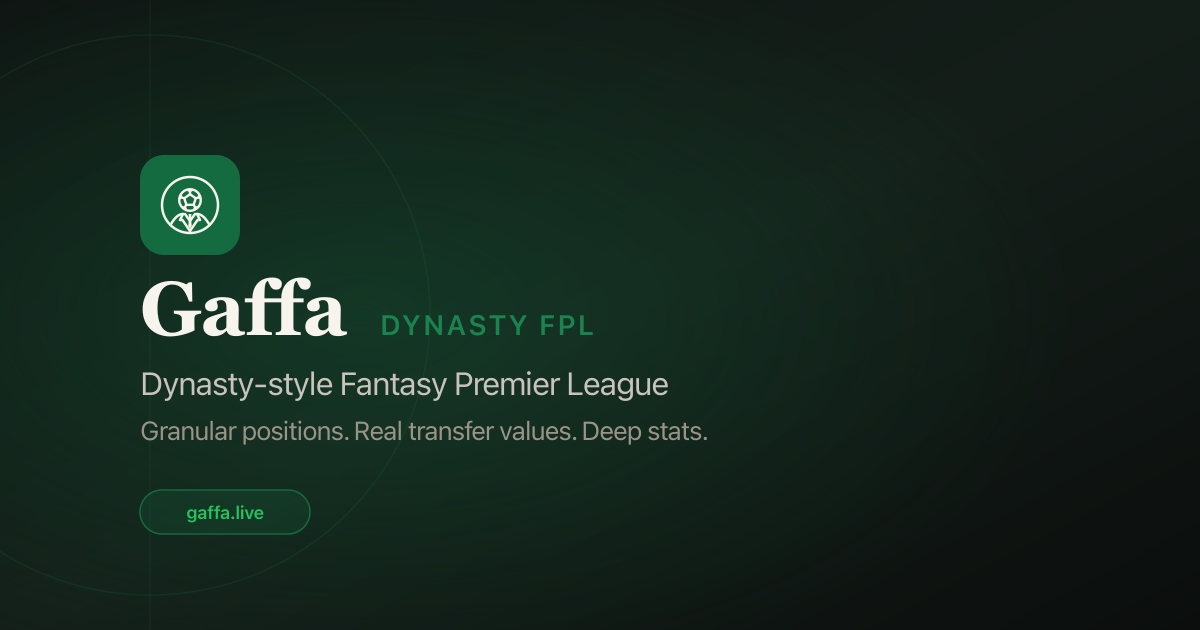
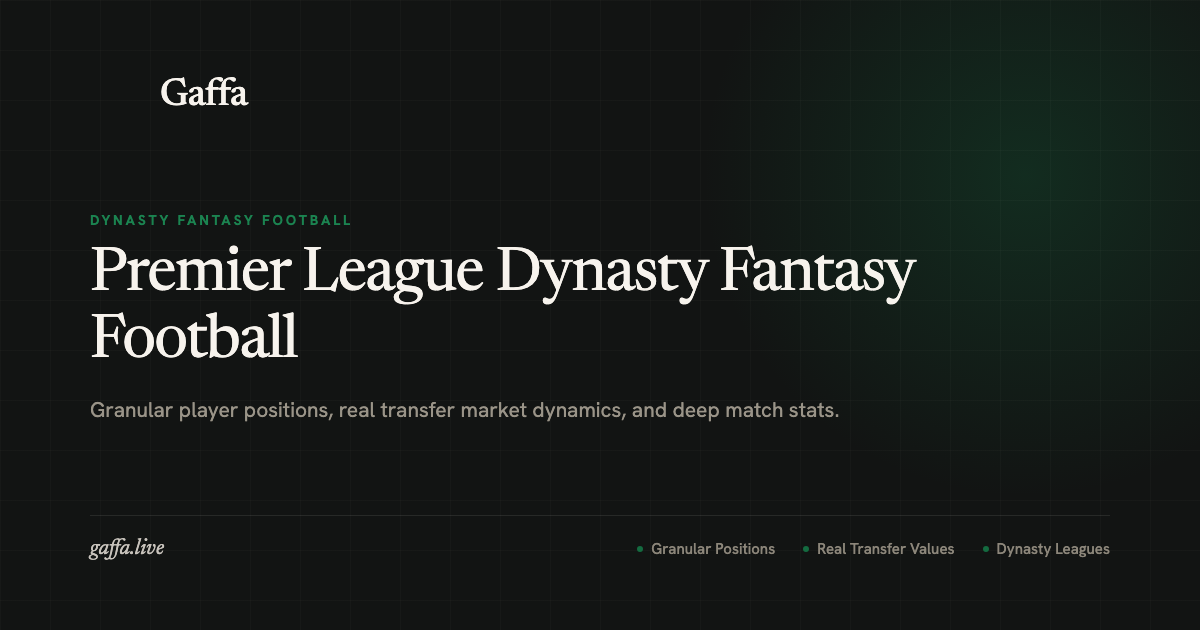
fix(metadata): update open graph card with Dynasty Fantasy Football branding and Newsreader typography

diff --git a/src/app/layout.tsx b/src/app/layout.tsx
@@ -5,10 +5,10 @@ import './globals.css';
 export const metadata: Metadata = {
   metadataBase: new URL('https://gaffa.live'),
   title: 'Gaffa — Dynasty Fantasy Football',
-  description: 'Dynasty-style Fantasy Premier League with granular positions and real transfer values.',
+  description: 'Dynasty Fantasy Football for the Premier League with granular positions and real transfer values.',
   openGraph: {
     title: 'Gaffa — Dynasty Fantasy Football',
-    description: 'Dynasty-style Fantasy Premier League with granular positions and real transfer values.',
+    description: 'Dynasty Fantasy Football for the Premier League with granular positions and real transfer values.',
     url: 'https://gaffa.live',
     siteName: 'Gaffa',
     locale: 'en_US',
@@ -17,7 +17,7 @@ export const metadata: Metadata = {
   twitter: {
     card: 'summary_large_image',
     title: 'Gaffa — Dynasty Fantasy Football',
-    description: 'Dynasty-style Fantasy Premier League with granular positions and real transfer values.',
+    description: 'Dynasty Fantasy Football for the Premier League with granular positions and real transfer values.',
   },
   icons: {
     icon: [
